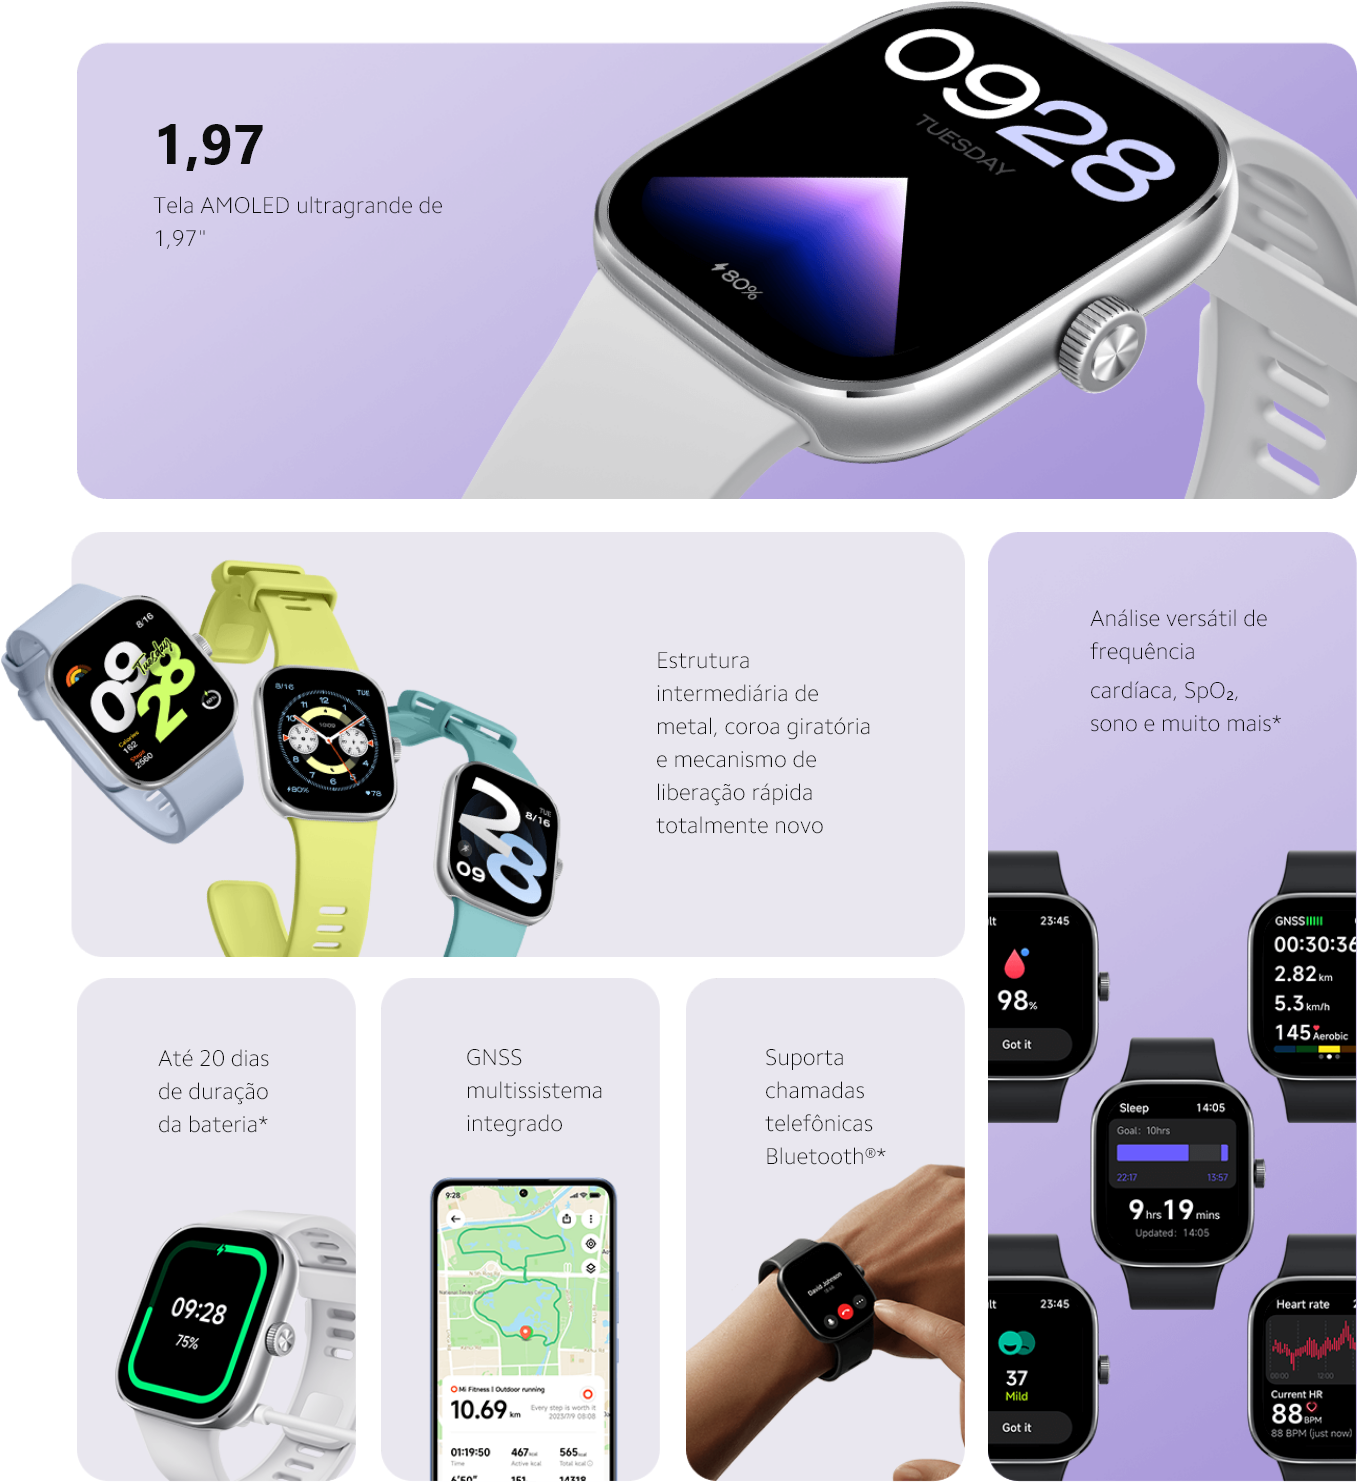
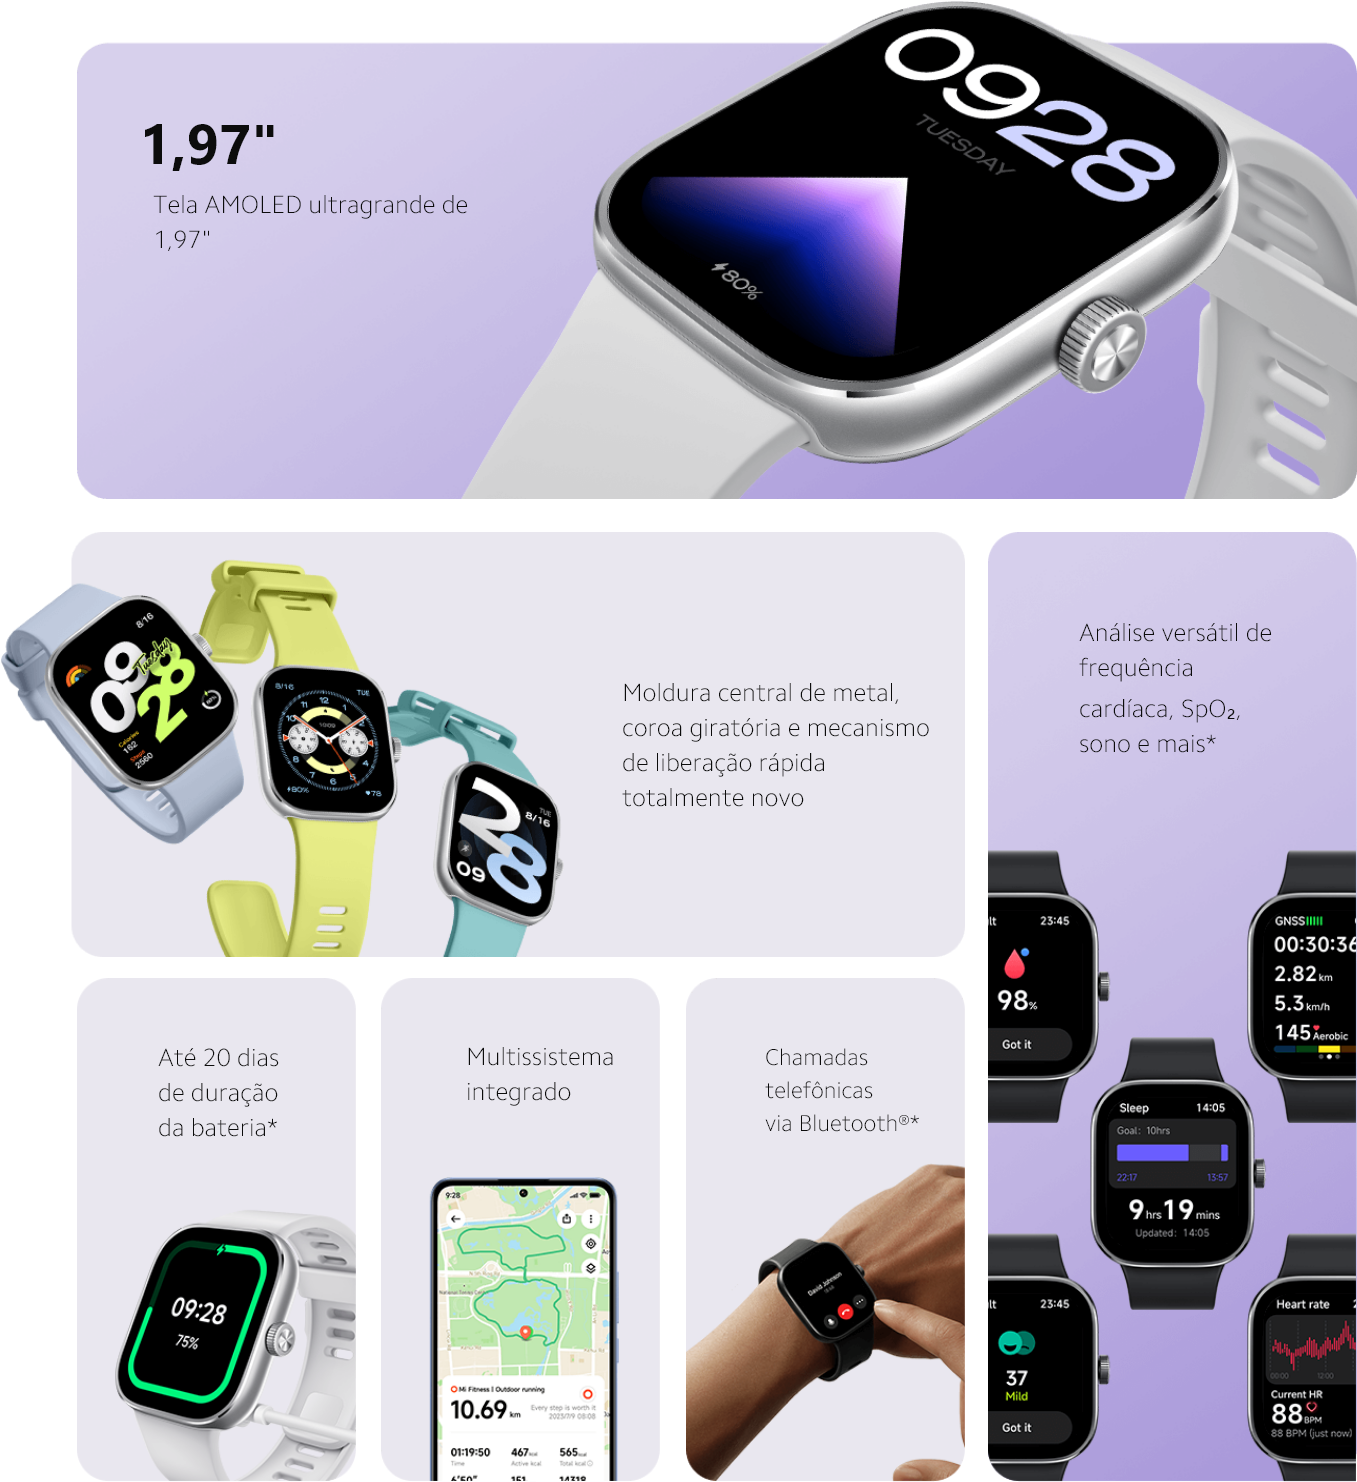
vs01

diff --git a/index.html b/index.html
@@ -263,17 +263,17 @@
 
                     <div>
                     <h2 class="icons-title txt-branco">Monitoramento da<br>saturação de oxigênio<br>no sangue durante todo o dia*</h2>
-                    <p class="icons-text txt-branco">Envia alertas de vibração quando a saturação de oxigênio no sangue está muito baixa.</p>
+                    <p class="icons-text txt-branco">Envia alertas de vibração quando a saturação de<br>oxigênio no sangue está muito baixa.</p>
                     </div>
 
                     <div>
-                        <h2 class="icons-title txt-branco">Monitoramento da<br>frequência cardíaca ao<br>longo do dia*</h2>
-                        <p class="icons-text txt-branco">Monitoramento contínuo e preciso da frequência cardíaca para proteger sua saúde cardiovascular a todo momento.</p>
+                        <h2 class="icons-title txt-branco">Monitoramento da<br>frequência cardíaca ao longo do dia*</h2>
+                        <p class="icons-text txt-branco">Monitoramento contínuo e preciso da frequência cardíaca<br>para proteger sua saúde cardiovascular a todo momento.</p>
                     </div>
 
                     <div>
                         <h2 class="icons-title txt-branco">Monitoramento de estresse</h2>
-                        <p class="icons-text txt-branco">Exercícios de respiração serão enviados quando seu nível de estresse atingir duas vezes seguidas o valor de 80*.</p>
+                        <p class="icons-text txt-branco">Exercícios de respiração<br>serão enviados quando seu nível de<br>estresse atingir duas vezes seguidas o valor de 80*.</p>
                     </div>
     
 
@@ -322,8 +322,22 @@
             <img class="img-fluid img-desk" src="./media/14.png">
             <img class="img-fluid img-mob" src="./media/mobile/14.png">
 
-
+            <div style="position: relative; width: 100%;">
+                <div class="grid-info">
+                  
+              
             <p class="p-info-left txt-preto">Equipado com um chip de localização GNSS, funciona em conjunto com seu smartphone ou de forma autônoma. Cinco sistemas de posicionamento por satélite são suportados para rastrear seus passos com precisão.</p>
+           
+                </div>
+                </div>
+
+
+
+
+
+
+
+
 
         </div>
        
@@ -349,13 +363,13 @@
             <div class="col-sm-12-s101 boxcolor-white grid-img-text">
                 
 
-                <img class="img-fluid img-desk" src="./media/16.png">
+                <img class="img-fluid img-desk" src="./media/16.png" style="width: 21rem;">
                 <img class="img-fluid img-mob" src="./media//mobile/16.webp">
                 <div class="grid-coll-text">
                 <h2 class="subtitle-left txt-preto">Aplicativo Mi Fitness<br>Dados diários de saúde na ponta dos seus dedos </h2>
                 <p class="p-left txt-preto">Estatísticas diárias de saúde, como frequência cardíaca, condicionamento e sono, são apresentados em detalhe para fornecer uma informação clara da sua saúde. A sincronização dos dados com o Strava e o Apple Health é fácil e conveniente.</p>
                 
-                <img class="" src="./media/logo2.jpg">
+                <img class="" src="./media/logo2.jpg" style="margin:1rem">
 
                 <p class="p-left txt-preto">*Os dispositivos não podem ser diretamente vinculados ao aplicativo Strava ou ao Apple Health.</p>
             </div>
@@ -369,8 +383,8 @@
             <div class="col-sm-12-s101 spacing boxcolor-white">
 
                 <div class="grid-text">
-                <h2 class="subtitle-left txt-preto">Segurança 24 horas</h2>
-                <p class="p-left txt-preto">Em caso de emergências, pressione o botão da coroa três vezes rapidamente para alertar seu contato de emergência*. Sua segurança é sempre a maior prioridade.</p>
+                <h2 class="subtitle-left txt-preto">Segurança<br>24 horas</h2>
+                <p class="p-left txt-preto">Em caso de emergências, pressione o<br>botão da coroa três vezes rapidamente para<br>alertar seu contato de emergência*.<br>Sua segurança é sempre a maior prioridade.</p>
             </div>
             
             </div>

diff --git a/css/main.css b/css/main.css
@@ -140,16 +140,18 @@ overflow-wrap: break-word;
 .subtitle-left {
 text-align: left;
 font-size: 3rem;
-font-weight: 600;
+font-weight: 700;
 font-family: 'CamphorPro', sans-serif;
 position: relative;
 overflow-wrap: break-word;
+line-height: 1.1;
+margin-bottom: 1rem;
 }
 
 .subtitle-center {
 text-align: center;
 font-size: 3rem;
-font-weight: 600;
+font-weight: 700;
 font-family: 'CamphorPro', sans-serif;
 position: relative;
 overflow-wrap: break-word;
@@ -225,8 +227,6 @@ overflow-wrap: break-word;
 width: 25rem;
 }
 
-
-
 .icons-title-mp {
 font-size: 2rem;
 font-family: 'CamphorPro', sans-serif;
@@ -242,7 +242,7 @@ font-size: 1.5rem;
 font-family: 'CamphorPro', sans-serif;
 font-weight: 700;
 color: var(--text-white);
-text-align: left;
+text-align: center;
 margin-bottom: 1rem;
 }
 
@@ -251,7 +251,7 @@ font-size: 1rem;
 font-family: 'CamphorPro', sans-serif;
 font-weight: 400;
 line-height: 1.2;
-text-align: left;
+text-align: center;
 }
 
 /***************************** Grid ******************************************/
@@ -266,6 +266,13 @@ height: 6rem;
 display: flex;
 flex-direction: column;
 }
+
+.grid-info {
+    position: absolute;
+    bottom: 0;
+    display: flex;
+    flex-direction: column;
+    }
 
 .grid-img-text {
     display: flex;
@@ -286,11 +293,12 @@ display: flex;
 }
 
 .grid-coll-text {
-display: flex;
-flex-direction: column;
-align-content: flex-start;
-align-items: flex-start;
-justify-content: center;
+    display: flex;
+    flex-direction: column;
+    align-content: flex-start;
+    align-items: flex-start;
+    justify-content: center;
+    width: 34rem;
 }
 
 .grid-atm{
@@ -311,11 +319,15 @@ flex-direction: column;
 margin: 1rem;
 }
 
-.grid-text{
+.grid-text {
     display: flex;
-    align-items: center;
+    justify-content: center;
     flex-direction: row;
+    align-items: center;
+    gap: 5rem;
 }
+
+
     
 
 /***************************** Conteudos ******************************************/
